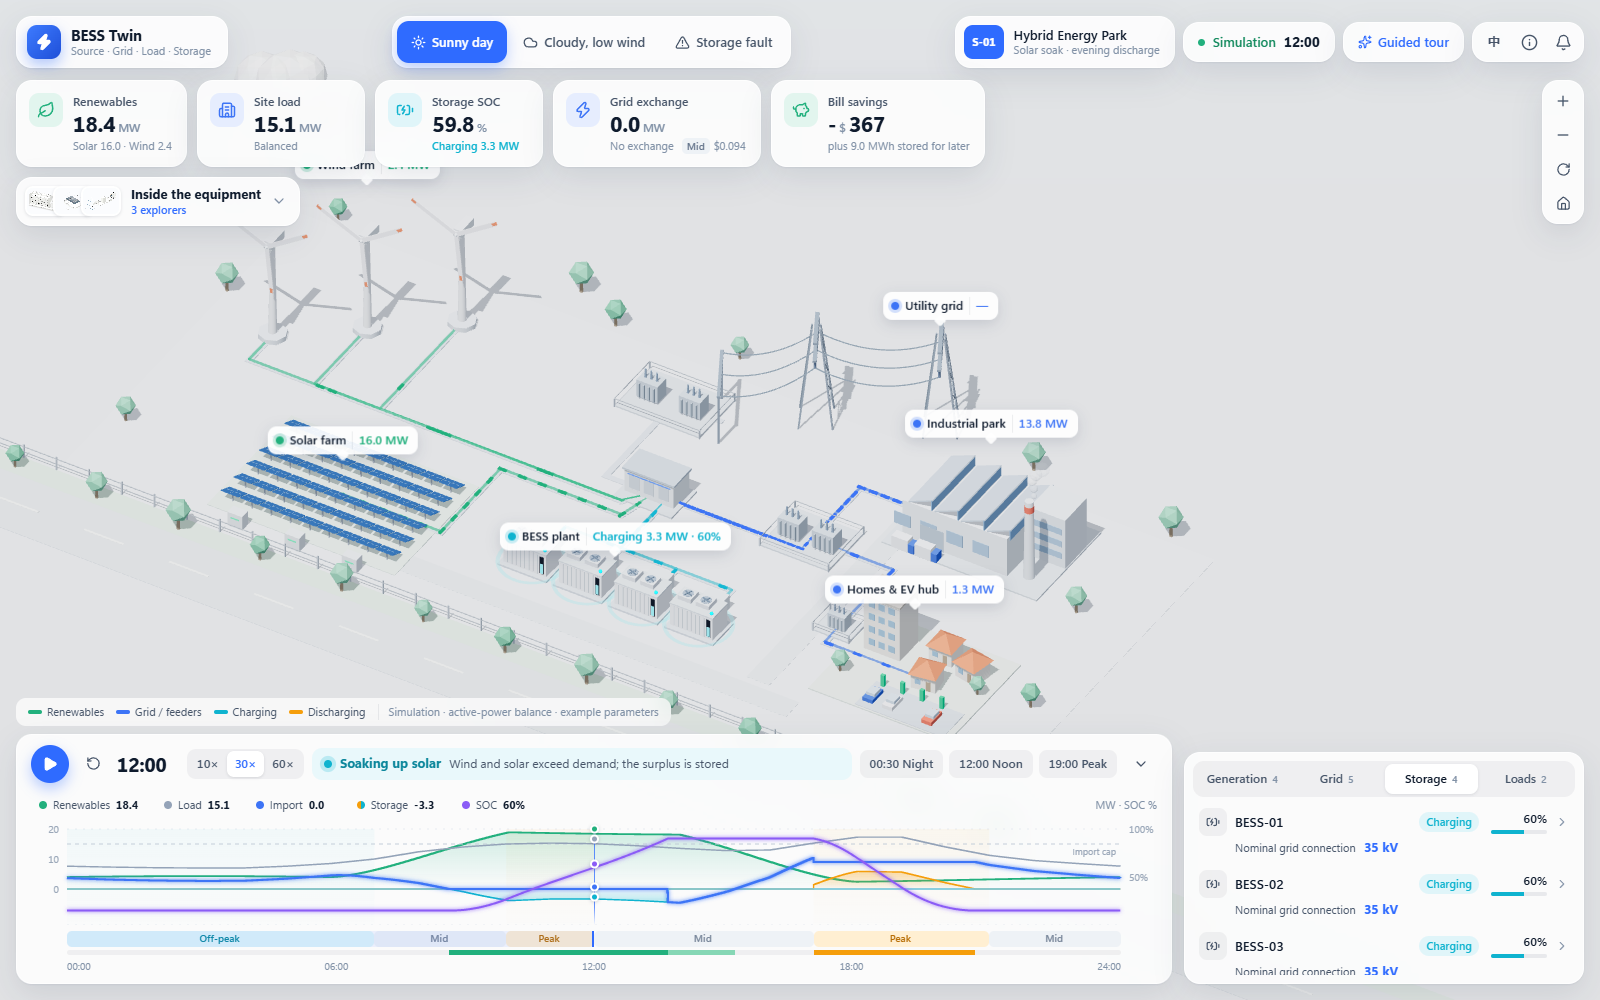
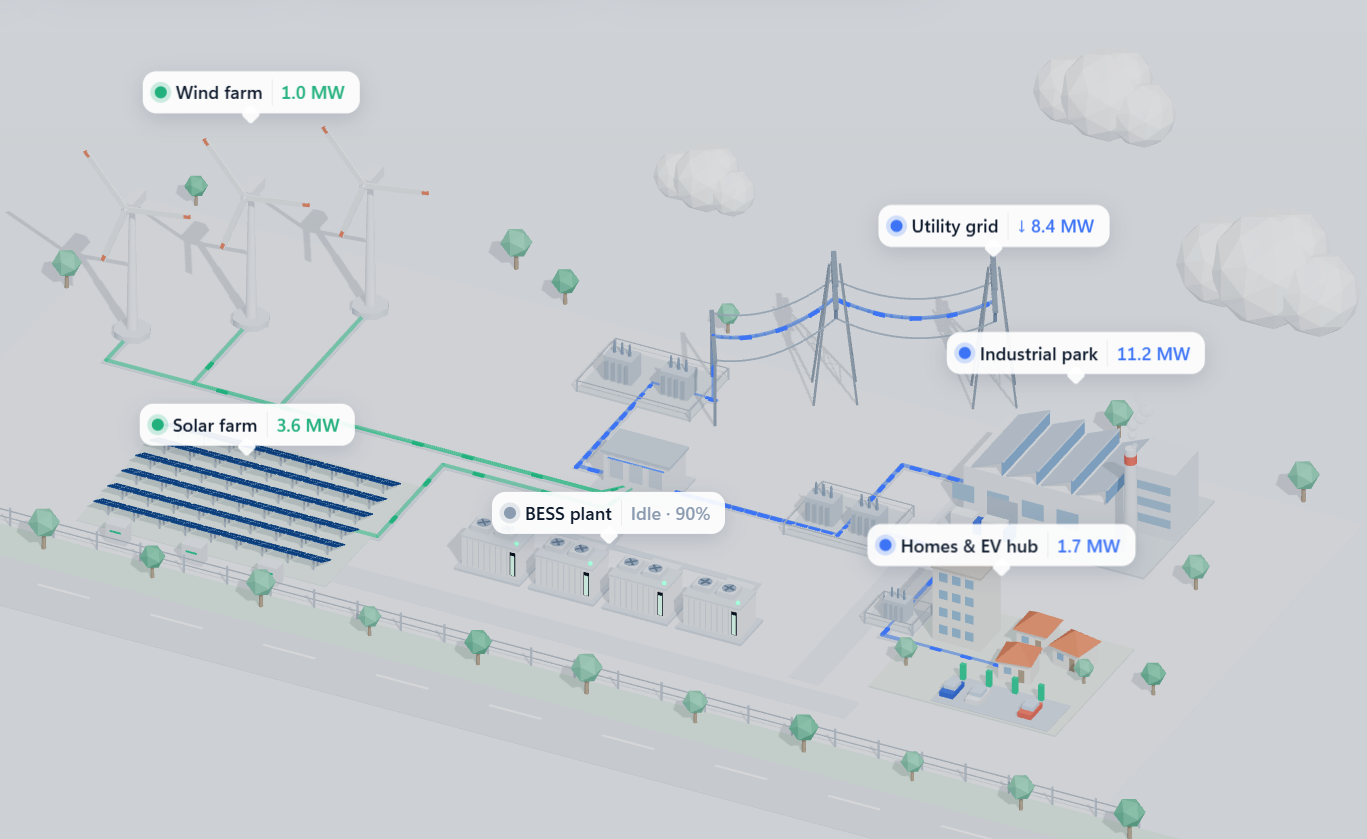
Use a cleaner energy-park image for sharing previews

diff --git a/index.html b/index.html
@@ -20,11 +20,11 @@
     <meta property="og:url" content="https://bokaihe.github.io/BESS-Twin/" />
     <meta property="og:image" content="https://bokaihe.github.io/BESS-Twin/social-preview.png" />
     <meta property="og:image:type" content="image/png" />
-    <meta property="og:image:width" content="1600" />
-    <meta property="og:image:height" content="1000" />
+    <meta property="og:image:width" content="1367" />
+    <meta property="og:image:height" content="839" />
     <meta
       property="og:image:alt"
-      content="BESS Twin dashboard showing a renewable energy park, storage, grid and daily power curves."
+      content="BESS Twin renewable energy park showing wind, solar, battery storage, the utility grid and users."
     />
     <meta name="twitter:card" content="summary_large_image" />
     <meta name="twitter:title" content="BESS Twin · Explore an Energy Digital Twin" />
@@ -35,7 +35,7 @@
     <meta name="twitter:image" content="https://bokaihe.github.io/BESS-Twin/social-preview.png" />
     <meta
       name="twitter:image:alt"
-      content="BESS Twin renewable energy park and daily power dashboard."
+      content="BESS Twin renewable energy park with wind, solar, storage, grid and users."
     />
     <title>BESS Twin · Energy Digital Twin</title>
   </head>

diff --git a/e2e/public-page.spec.ts b/e2e/public-page.spec.ts
@@ -104,6 +104,6 @@ test('share metadata is in the initial HTML and the preview image is served loca
   expect(preview.ok()).toBe(true)
   expect(preview.headers()['content-type']).toContain('image/png')
   const png = await preview.body()
-  expect(png.readUInt32BE(16)).toBe(1600)
-  expect(png.readUInt32BE(20)).toBe(1000)
+  expect(png.readUInt32BE(16)).toBe(1367)
+  expect(png.readUInt32BE(20)).toBe(839)
 })

diff --git a/README.md b/README.md
@@ -211,7 +211,7 @@ Geometry checks: `npm run renewables:build`. Browser regression checks: `npx pla
 
 ## Public-page metadata and onboarding
 
-Share metadata is present in the initial HTML, following the [Open Graph protocol](https://ogp.me/). `public/social-preview.png` is a copy of the English overview screenshot. Forks should update the canonical, Open Graph and card URLs in `index.html`; copy a new screenshot and update its declared dimensions when refreshing the cover. Preview rendering and caching depend on the sharing platform; this does not guarantee a card on every platform.
+Share metadata is present in the initial HTML, following the [Open Graph protocol](https://ogp.me/). `public/social-preview.png` is the simplified energy-park screenshot, with English equipment labels and without dashboard panels. Forks should update the canonical, Open Graph and card URLs in `index.html`; copy a new screenshot and update its declared dimensions when refreshing the cover. Preview rendering and caching depend on the sharing platform; this does not guarantee a card on every platform.
 
 The optional tour hint appears once per browser storage profile. It neither starts the tour automatically nor changes simulation time. Starting the tour or dismissing the hint returns focus through the persistent tour button. With browser storage disabled, the page remains usable; the hint can reappear on a new visit because persistence is unavailable.
 
